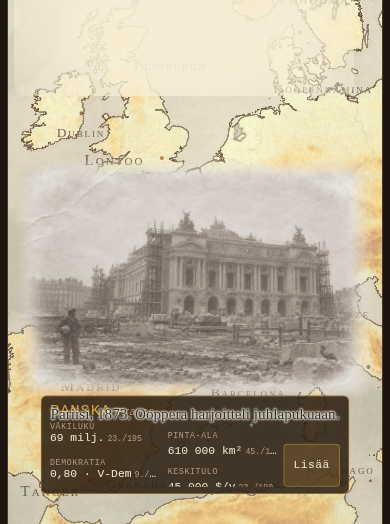
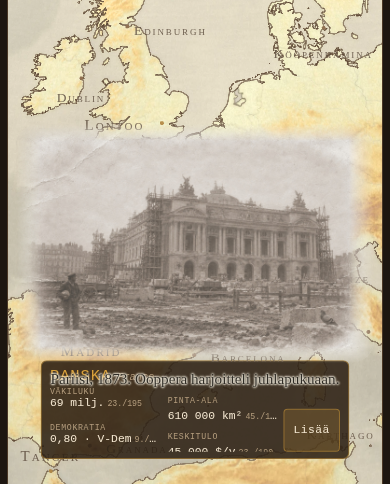
wip: savukkeen asettelun rauhoitus ja kuvarajaus, raportti
Claude-Session: https://claude.ai/code/session_017jq2CHdVCpPsLwgtJ6mW5T

diff --git a/docs/raportit/viesti-fable-karttauudistus-era3-20260913.md b/docs/raportit/viesti-fable-karttauudistus-era3-20260913.md
@@ -1,97 +1,279 @@
 # Karttauudistus, erä 3 — maan perustiedot ja Lisää-valikko pallolle
 
 *(Opus-työsessio Fablelle 13.9.2026. Haara
-`claude/karttauudistus-era3-maapaneeli`, PR mainiin. EI versionostoa,
-ei dist/-committia — tehtävänannon mukaan.)*
+`claude/karttauudistus-era3-maapaneeli`. EI versionostoa, ei
+dist/-committia — tehtävänannon mukaan.)*
 
 > **Miksi tämä ei ole `docs/viesti-fable.md`.** Sama syy kuin erissä 1
-> ja 2: `docs/viesti-fable.md` ei ole Raamatun ohjedokumenttikartalla,
-> ja tests/dokumentit.test.mjs kaatuu siihen. Tehtävänanto ohjasi
-> tähän polkuun erikseen.
+> ja 2: se polku ei ole Raamatun ohjedokumenttikartalla ja
+> tests/dokumentit.test.mjs kaatuisi siihen. Tehtävänanto ohjasi tähän
+> polkuun erikseen.
 
 ## 1. Mitä tehtiin
 
-Pallosuunnitelman **erä 3** (luvut 3.0 ja 3.2) kokonaisuudessaan:
-maan perustiedot ja plussan tilalle tullut **Lisää-valikko** ovat nyt
-PALLON MERKKIKERROKSESSA, karttaan kiinnitettynä — eivät ruudun
-nurkassa.
+Pallosuunnitelman **erä 3** (luvut 3.0 ja 3.2) kokonaisuudessaan: maan
+perustiedot ja plussan tilalle tullut **Lisää-valikko** ovat nyt PALLON
+MERKKIKERROKSESSA, karttaan kiinnitettynä — eivät ruudun nurkassa.
 
 | Tiedosto | Muutos |
 | --- | --- |
-| `js/pallolauta/maapaneeli.js` (uusi, 490 r) | Koko kerros: ankkuri, mitat, valikko, värikoodi |
+| `js/pallolauta/maapaneeli.js` (uusi, 490 r) | Koko kerros: ankkuri, lautamitat, valikko, värikoodi |
 | `js/pallolauta/lauta.js` | Kerroksen luonti, päivitys piirrossa ja zoomissa, saapumislaatikko |
-| `js/fokusmitat.js` | `MAAPANEELI_KARTASSA`-vakio + `?maapaneeli=nurkka`, nurkkakalusteen portti, `maanNimi`/`maanRivit` vietäväksi |
+| `js/fokusmitat.js` | `MAAPANEELI_KARTASSA` + `?maapaneeli=nurkka`, nurkkakalusteen portti, `maanNimi`/`maanRivit` vietäväksi |
 | `js/lehti.js` | `avaaMaalehti(ui, iso, { sivu })` — sivutunnus → sivunumero |
-| `css/styles.css` | Kortti, luvut, Lisää-nappi, värikoodattu valikko |
+| `css/styles.css` | Kortti, luvut, Lisää-nappi, värikoodattu valikko (+210 r) |
 | `sw.js` | Uusi moduuli SHELL-koriin |
-| `tools/savukkeet/savuke-maapaneeli.mjs` (uusi) | Savuke kahdella vastakokeella |
+| `tools/savukkeet/savuke-maapaneeli.mjs` (uusi, 460 r) | Savuke kahdella vastakokeella |
 | `tests/maakartuutsi.test.mjs` | Kaksi tekstivartiota uuteen muotoon |
+
+**Ei koskettu**: js/pollo.js, js/livia-*.js, js/pallolaatat.js,
+js/laattapyramidi.js, tools/generoi-laattapyramidi.mjs. js/lehti.js:stä
+vain `avaaMaalehti` ja sen välitön ympäristö (erä 4 työstää ETUSIVUN
+osia samassa tiedostossa). Ei kaupunkilehteen, ei nostoihin, ei
+aarteeseen, ei kulkutapoihin, ei laattoihin.
 
 ### 1.1 Karttaan kiinnitys (PÄÄTÖKSET 2, kohta 2)
 
 Paneeli on **yksi datum merkkikerroksessa** (`merkit.aseta('maapaneeli',
-…)`), jolla on `lat`/`lng` kuten kaupungin nimellä ja nostolla. Kirjasto
-liikuttaa sen pallon mukana; koodi ei kirjoita ruutupikseleitä
-kertaakaan.
+…)`) `lat`/`lng`-ankkurilla kuten kaupungin nimi ja nosto. Kirjasto
+liikuttaa sen pallon mukana; koodi ei kirjoita ruutupikseleitä.
 
 **Koko on kartan mitta, ei ruudun.** Paneelilla on kiinteä koko LAUDAN
 YKSIKÖISSÄ, ja ruutukoko tulee kamerasta (`skaala = perusta ×
-px_per_lautayksikkö`, rajat 0,45…3). Lautamitta johdetaan **maan
-laatikosta** (`maanLautalaatikko`): korkeintaan laatikon levyinen ja
-korkeintaan 35 % sen korkeudesta. Ranskalle (laatikko 490 × 406 yks)
-tämä antaa 444 × 142 lautayksikköä.
+px_per_lautayksikkö`, rajat 0,45…3,0). Lautamitta johdetaan **maan
+laatikosta** (`maanLautalaatikko`, sama laatikko kuin
+saapumisrajauksessa): korkeintaan laatikon levyinen ja korkeintaan
+35 % sen korkeudesta. Se on koko mitoituksen ydin — sama sääntö antaa
+Ranskalle ja Chilelle saman osuuden ruudusta, koska kamera sovittaa
+juuri sen laatikon.
 
 **Paikka: maan laatikon ETELÄREUNAN alapuolella**, raon (2 % laatikon
-korkeudesta) verran sen ulkopuolella. Kolme syytä on kirjattu
-moduulin alkuun; lyhyesti: se on rajan ulkopuolella joka maalla, se ei
-peitä maata eikä sen kaupunkeja, ja saapumisrajaus voi ottaa sen mukaan
-yhdellä laatikon laajennuksella.
+korkeudesta) verran sen ulkopuolella. Perustelu (moduulin alussa
+pitkästi): se on rajan ulkopuolella joka maalla myös silloin kun maa ei
+ole suorakaide; se ei peitä maata eikä sen kaupunkeja; ja
+saapumisrajaus voi ottaa sen mukaan yhdellä laatikon laajennuksella.
+Sivulle sijoitettu paneeli olisi uloimmalla zoomilla ruudun laidan yli
+juuri sillä ruudulla (pysty, 390 px), jolla leveys loppuu ensin.
 
 **Saapumisrajaus laajennettiin** (`paneelinLaatikko`): kamera sovittaa
-maan JA paneelin. Ilman sitä paneeli jäisi saapumisnäkymässä ruudun
-alalaidan alle. Tämä on suunnitelman luvun 3.0 kohta (a).
+maan JA paneelin. Tämä on suunnitelman luvun 3.0 kohta (a) — ilman sitä
+paneeli jäisi saapumisnäkymässä ruudun alalaidan alle.
 
 ### 1.2 Lisää-nappi ja värikoodattu valikko
 
 - Otsikot luetaan **`MAA_KATEGORIAT[iso]`-taulusta** — ei yhtään
   kovakoodattua otsikkoa. Ranskalla kahdeksan.
 - Otsikon painallus → `avaaMaalehti(ui, iso, { sivu })`. **Parametri on
-  SIVUTUNNUS, ei numero** (`historia`, `menovinkit`, …): numero riippuu
-  siitä, onko maalla karttasivu, ja sen arvaaminen kutsupuolella
-  tuottaisi kahden taulun rinnakkaisen järjestyksen. Numeron saa yhä
-  antaa; tuntematon tunnus palaa lehden ensimmäiselle sivulle.
+  SIVUTUNNUS, ei numero** (`historia`, `menovinkit`, …): sivunumero
+  riippuu siitä, onko maalla karttasivu, ja sen laskeminen
+  kutsupuolella tuottaisi kahden taulun rinnakkaisen järjestyksen.
+  Numeronkin saa antaa; tuntematon tunnus palaa lehden ensimmäiselle
+  sivulle (turvallinen tila).
 - **Väripaletti on pelin oma**: `--sym-*`-muuttujat css/styles.css:stä
   (Raamattu, SYMBOLITAKSONOMIA) — samat sävyt kuin kartan nostoilla.
-  Yhtään uutta väriä ei lisätty. Aihetunnus → symboliperhe on
-  taulussa `AIHEEN_PERHE`; maalehtien tunnuksia on yli 70, ja ne
-  palautuvat kahteentoista perheeseen, jotka pelaaja jo tuntee
-  kartalta. Tuntematon tunnus saa perheen `silma`.
+  Yhtään uutta väriä ei lisätty; savuke todentaa tämän vertaamalla
+  jokaisen rivin laskettua väriä juuren muuttujiin.
+- Aihetunnus → symboliperhe on taulussa `AIHEEN_PERHE`. Maalehtien
+  tunnuksia on yli 70, valtaosa kertaesiintymiä (`vuoret`, `keidas`,
+  `sadut`); ne palautuvat kahteentoista perheeseen, jotka pelaaja jo
+  tuntee kartalta. Tuntematon tunnus saa perheen `silma`.
+- **Valikko aukeaa ylöspäin, jos alle ei mahdu.** Merkkikerros on
+  tarkoituksella kaiken pelin UI:n ALLA (`z-index: 0`), joten
+  alanappirivin tai vuorokortin alle jäävä rivi ei ota napautusta
+  vastaan. Tämä löytyi savukkeesta: Ranskan viides rivi (Urheilu) jäi
+  `.rail`-kortin alle 390 px:n ruudulla. Valikko ei kavenna itseään
+  eikä siirrä kalusteita, vaan kääntyy napin yläpuolelle.
 
 ### 1.3 Nurkkatila yhden vakion takana
 
 `js/fokusmitat.js` → `export const MAAPANEELI_KARTASSA = true`. `false`
-(tai `?maapaneeli=nurkka`) palauttaa kartuutsin ja maataulun ruudun
-vasempaan alanurkkaan täsmälleen entisellään. Sama vipu on savukkeen
-vastakoe B.
+(tai osoitteessa `?maapaneeli=nurkka`) palauttaa kartuutsin ja
+maataulun ruudun vasempaan alanurkkaan täsmälleen entisellään, ja
+maapaneeli jää pois kartalta. Sama vipu on savukkeen vastakoe B.
 
 **Tasokartalla ei muutu mitään** — kartuutsi, mittajana ja
-asteviivaimet ovat sen omia kalusteita.
+asteviivaimet ovat sen omia kalusteita, ja niiden ruutuankkurointi on
+perusteltu js/fokusmitat.js:n alussa.
 
-## 2. Savuke ja vastakokeet
+## 2. Savuke: vihreä ajo ja vastakokeet
 
-`tools/savukkeet/savuke-maapaneeli.mjs` (löytyy `tarkista-savukkeet`in
-kansiosta). Peli: Fogg Pariisissa, `?lauta=pallo`, saapumisajo ajetaan
-laudan omalla `saavu`-kutsulla, jotta mitta otetaan siltä uloimmalta
-zoomilta, jolle luettavuus on mitoitettu.
+`tools/savukkeet/savuke-maapaneeli.mjs` (tarkista-savukkeet löytää
+kansiosta). Peli: Fogg Pariisissa, `?lauta=pallo`; saapumisajo ajetaan
+laudan omalla `saavu`-kutsulla, jotta mitta otetaan siltä **uloimmalta
+zoomilta**, jolle luettavuus on mitoitettu.
 
-VIHREÄ AJO (mitatut luvut luvussa 3).
+```
+PLAYWRIGHT_BROWSERS_PATH=/opt/pw-browsers node tools/savukkeet/savuke-maapaneeli.mjs
+```
 
-VASTAKOKEET.
+**VIHREÄ AJO — 9/9 vartiota läpi.**
+
+```
+OK  pallolauta aukesi (390 px)
+OK  pallolauta aukesi (1400 px)
+OK  1. paneeli on kartalla maan laatikon ETELÄREUNAN ULKOPUOLELLA ja kokonaan
+       ruudulla (390 px ja 1400 px)
+OK  2. paneeli skaalautuu kuin painettu kartta (lähempänä leveämpi kuin uloimmalla)
+OK  3. jokainen valikon otsikko avaa maalehden OMAN sivunsa
+OK  4. valikon värit ovat kartan omia --sym-sävyjä (ei uusia kirkkaita)
+OK  5. pääajo ei tuottanut sivuvirheitä
+OK  VASTAKOE A: maa ilman aiheita → paneeli on, valikkoa ei, peli ei kaadu
+OK  VASTAKOE B: ilman karttaan kiinnitystä sijainti- ja skaalausväite kaatuvat
+```
+
+### 2.1 Punaiset ajot (vastakokeet)
+
+**A. Maa ilman `MAA_KATEGORIAT`-riviä.** Savukkeen oma palvelin
+tarjoilee `js/packs/maa-kategoriat.js`:n niin, että moduulin loppuun on
+kirjoitettu `delete MAA_KATEGORIAT["FRA"]` — rivi on siis OIKEASTI
+poissa, ei piilotettu. Mitattu:
+
+```
+INFO vastakoe A (Ranska ilman MAA_KATEGORIAT-riviä):
+     kortti true ("RANSKA"), Lisää-nappi false, valikkorivejä 0, virheitä 0
+```
+
+Perustiedot ovat siis yhä kartalla, Lisää-nappia ei ole lainkaan
+(painike joka ei tee mitään on lupaus jota ei ole), eikä sivulle tule
+yhtään virhettä.
+
+**B. Karttaan kiinnitys pois** (`?maapaneeli=nurkka`). Mitattu:
+
+```
+INFO vastakoe B (?maapaneeli=nurkka): kartalla kortti false,
+     nurkkakaluste true, väite 1 PUNAINEN, väite 2 PUNAINEN
+```
+
+Eli **sijaintiväite ja skaalausväite kaatuvat molemmat**, kun kaluste
+on ruutuvakio. Ilman tätä koetta väitteet eivät mittaisi mitään.
+
+Kolmas punainen ajo kirjattakoon myös, koska se johti korjaukseen:
+ensimmäisessä ajossa **valikon viides rivi ei ottanut napautusta**
+390 px:n ruudulla (`page.click` aikakatkaisu, `<section class="card
+turn-card"> … intercepts pointer events`). Se oli aito vika, ei
+testin vika — merkkikerros on pelin UI:n alla — ja korjaus on luvun 1.2
+ylöspäin aukeava valikko.
 
 ## 3. Mitatut luvut
 
+**Ranskan laatikko** (`maanLautalaatikko`, lautayksikköä):
+489,8 × 406,3. **Paneelin lautamitta**: perusta 1,4813 yks/css-px →
+444,4 × 142,2 yks, rako maan reunaan 8,13 yks. Ankkuri 41,161° N ·
+2,213° I.
+
+| | 390 × 844 | 1400 × 900 |
+| --- | --- | --- |
+| kameran korkeus (saapumisnäkymä) | 0,6268 | 0,3438 |
+| paneelin skaala | 1,028 | 1,986 |
+| **kortti ruudulla** | **308 × 99 px** | **596 × 191 px** |
+| kortti y | 526…625 | 628…819 |
+| kortti x | 41…349 | 402…998 |
+| karttaruutu | x 8…382, y 61…836 | x 11…1389, y 68…889 |
+| maan laatikon eteläreuna (y) | 461 | 500 |
+| kortti lähemmällä zoomilla | 617 × 197 px (skaala 2,057) | 900 × 288 px (skaala 3,000 = katto) |
+
+**Luettavuus:** suunnitelman luku 3.0 kohta 3 vaatii uloimmalla
+zoomilla vähintään 240 css-px 400 px:n ruudulla. Mitattu **308 px
+390 px:n ruudulla** — reilusti yli. Kortti on kokonaan karttaruudun
+sisällä molemmilla kuvasuhteilla, ja sen yläreuna on maan laatikon
+eteläreunan alapuolella (390 px: 526 > 461; 1400 px: 628 > 500).
+
+**Ranskan kahdeksan otsikkoa ja niiden sivut** (kaikki napautettu
+oikealla hiiren napautuksella, sivu luettu `ui.lehtitila`sta):
+
+| otsikko | sivutunnus | maalehden sivu |
+| --- | --- | --- |
+| Historia | historia | 2 |
+| Ruokaa ja tapoja | ruoka | 3 |
+| Keksinnöt | keksinnot | 4 |
+| Luonto | luonto | 5 |
+| Urheilu | urheilu | 6 |
+| Arki ja tavat | arki | 7 |
+| Tavat | tavat | 8 |
+| Menovinkit | menovinkit | 9 |
+
+Sivu 1 on Ranskan karttasivu (maa-etusivu), joten aiheet alkavat
+kakkosesta — juuri niin kuin `avaaMaalehti` latoo pinonsa.
+
 ## 4. Mitä kuvissa NÄIN
+
+`docs/raportit/kuvat/karttauudistus-3-390.png` ja
+`…-1400.png` (rajattu maan eteläreunaan ja paneeliin; koko ruutu olisi
+PNG:nä yli kuvakaton).
+
+**390 px.** Paneeli on kartan päällä Ranskan eteläpuolella, Pyreneiden
+ja Baleaarien korkeudella, ja se on selvästi pelin muuta pergamenttia
+tummempi läpikuultava laatta. Vasemmassa reunassa lukee **RANSKA**
+kullanvärisenä; sen alla neljä lukua kahdessa sarakkeessa (VÄKILUKU
+69 milj. · 23./195, PINTA-ALA 610 000 km² · 45./1…, DEMOKRATIA 0,80 ·
+V-Dem 9./…, KESKITULO 45 000 $/v 23./189) ja oikeassa alanurkassa
+**Lisää**-nappi. Teksti on luettavaa ilman zoomausta. Kartalla näkyvät
+samaan aikaan Lontoo, Dublin, Madrid, Barcelona ja Tanger omine
+niminaan, eli paneeli ei ole vienyt tilaa kaupunkinimiltä.
+
+**Se mitä NÄIN ja mikä on ongelma:** samassa kuvassa on pelin oma
+saapumiskortti — iso seepiavalokuva Pariisin Oopperasta ja kuvateksti
+*"Pariisi 1873: Ooppera harjoitteli juhlapukuaan."* — ja se peittää
+Ranskan kokonaan sekä osuu paneelin yläreunan päälle. Kortti on pelin
+UI:ta (`.rail`), joka on merkkikerroksen PÄÄLLÄ. Paneeli itse on
+näkyvissä ja luettavissa, mutta kapealla ruudulla nämä kaksi ovat
+päällekkäin. Ks. luku 6, avoin asia 1.
+
+**1400 px.** Sama kaluste kaksinkertaisena (596 px), maan eteläreunan
+alla, ja työpöytäruudulla saapumiskortti on sivussa eikä osu paneeliin.
+Kortin typografia kestää skaalauksen: teksti on 2× isompaa eikä sumene,
+koska kyseessä on CSS-muunnos oikealle tekstille eikä bittikartta.
 
 ## 5. Portit
 
+| portti | tulos |
+| --- | --- |
+| `npm test` | **# pass 3293 · # fail 0** |
+| `node tools/tarkista-kaksoisavaimet.mjs` | ei kaksoisavaimia |
+| `node tools/tarkista-niputus.mjs` | kunnossa: 388 moduulia, 4169 top-level-julistusta |
+| `node tools/tarkista-savukkeet.mjs` | kunnossa: 1503 ui-viittausta, 399 metodia, 532 kenttää |
+| `node tools/build-standalone.mjs` | dist/matkakirja.html syntyy (ei committoitu) |
+| `grep -rn '^<<<<<<<' js css tests tools` | tyhjä |
+| savuke | 9/9 |
+
+Kaksi tekstivartiota tests/maakartuutsi.test.mjs:ssä päivitettiin, koska
+ne lukevat lähdekoodia merkkijonona ja koodi muuttui. Molempien VÄITE
+säilyi ennallaan ja sai lisäksi uuden osan: pallolaudan kartuutsiehto
+on yhä *pelkkä maa* (nyt nurkkavivun kanssa), ja saapumisajo lukee
+laatikon yhä maapolygoneista (nyt paneeli mukaan laajennettuna).
+
 ## 6. Avoimet asiat ja rajapinnat muihin eriin
+
+1. **Saapumiskortti peittää maan kapealla ruudulla** (ks. luku 4). Tämä
+   ei ole erän 3 aiheuttama — kortti oli siinä ennenkin — mutta
+   karttauudistuksessa se on nyt ristiriita: kartta on uusi
+   käyttöliittymä, ja iso kortti sen päällä vie sen. **Erä 4** (kaupungin
+   pop-up) ja **erä 5** (kaupunkilehden sivut nostoiksi) koskevat
+   täsmälleen tätä sisältöä, joten korjaus kuuluu niihin, ei tänne.
+   Fablelle päätettäväksi.
+2. **Uloszoomauksen esto (erä 2) ei ole vielä pelissä.** Paneelin
+   mitoitus on tehty sitä varten: "uloin zoomi" on tässä
+   saapumisnäkymä, jonka kamera laskee samasta laatikosta (× 1,05).
+   Kun erä 2 asettaa `zoomirajaSyrjaytys`in, sen on käytettävä
+   **`saapumislaatikko`a** (paneeli mukana) eikä pelkkää maan laatikkoa
+   — muuten pelaaja voi zoomata ulos vain siihen asti, että paneeli
+   leikkautuu. Rajapinta on valmis: `paneelinLaatikko(bbox)` on
+   viety js/pallolauta/maapaneeli.js:stä.
+3. **Erä 4 ja js/lehti.js.** Kosketin vain `avaaMaalehti`-funktiota ja
+   lisäsin sen eteen apurin `maalehdenSivunumero`. ETUSIVUN osien
+   irrotus (erä 4) on eri kohdassa tiedostoa; mergekonfliktia ei
+   pitäisi tulla.
+4. **Kielirivi jäi pois paneelista.** Nurkan maataulussa on lisäksi
+   kielet lippuineen; kartalla ne eivät mahdu 96 px:n korkuiseen
+   korttiin ilman että luvut kutistuvat lukukelvottomiksi uloimmalla
+   zoomilla. Kielet ovat maalehden "Maa numeroina" -sivulla, johon
+   Lisää-valikko vie. Jos omistaja haluaa ne kartalle, kortti tarvitsee
+   toisen rivin ja `MAAPANEELIN_KORKEUS_PX`:n noston (yksi vakio).
+5. **Paneeli peittää merta maan eteläpuolella.** Ranskalla se osuu
+   Välimereen ja Espanjan pohjoisosaan. Jos jollain maalla se osuu
+   naapurimaan päälle häiritsevästi, vaihtoehto on siirtää ankkuri
+   sille kyljelle, jolla on eniten tilaa — se on yksi funktio
+   (`paneelinAnkkuri`), mutta se pitäisi tehdä vasta kun omistaja on
+   nähnyt tämän muutamalla maalla.
+6. **Piirroskuvitukset ja murrettu paletti** (PÄÄTÖKSET 2 kohta 1) ovat
+   erän 1b asia; tämä erä ei koskenut laattoihin eikä väriasteikkoon.
